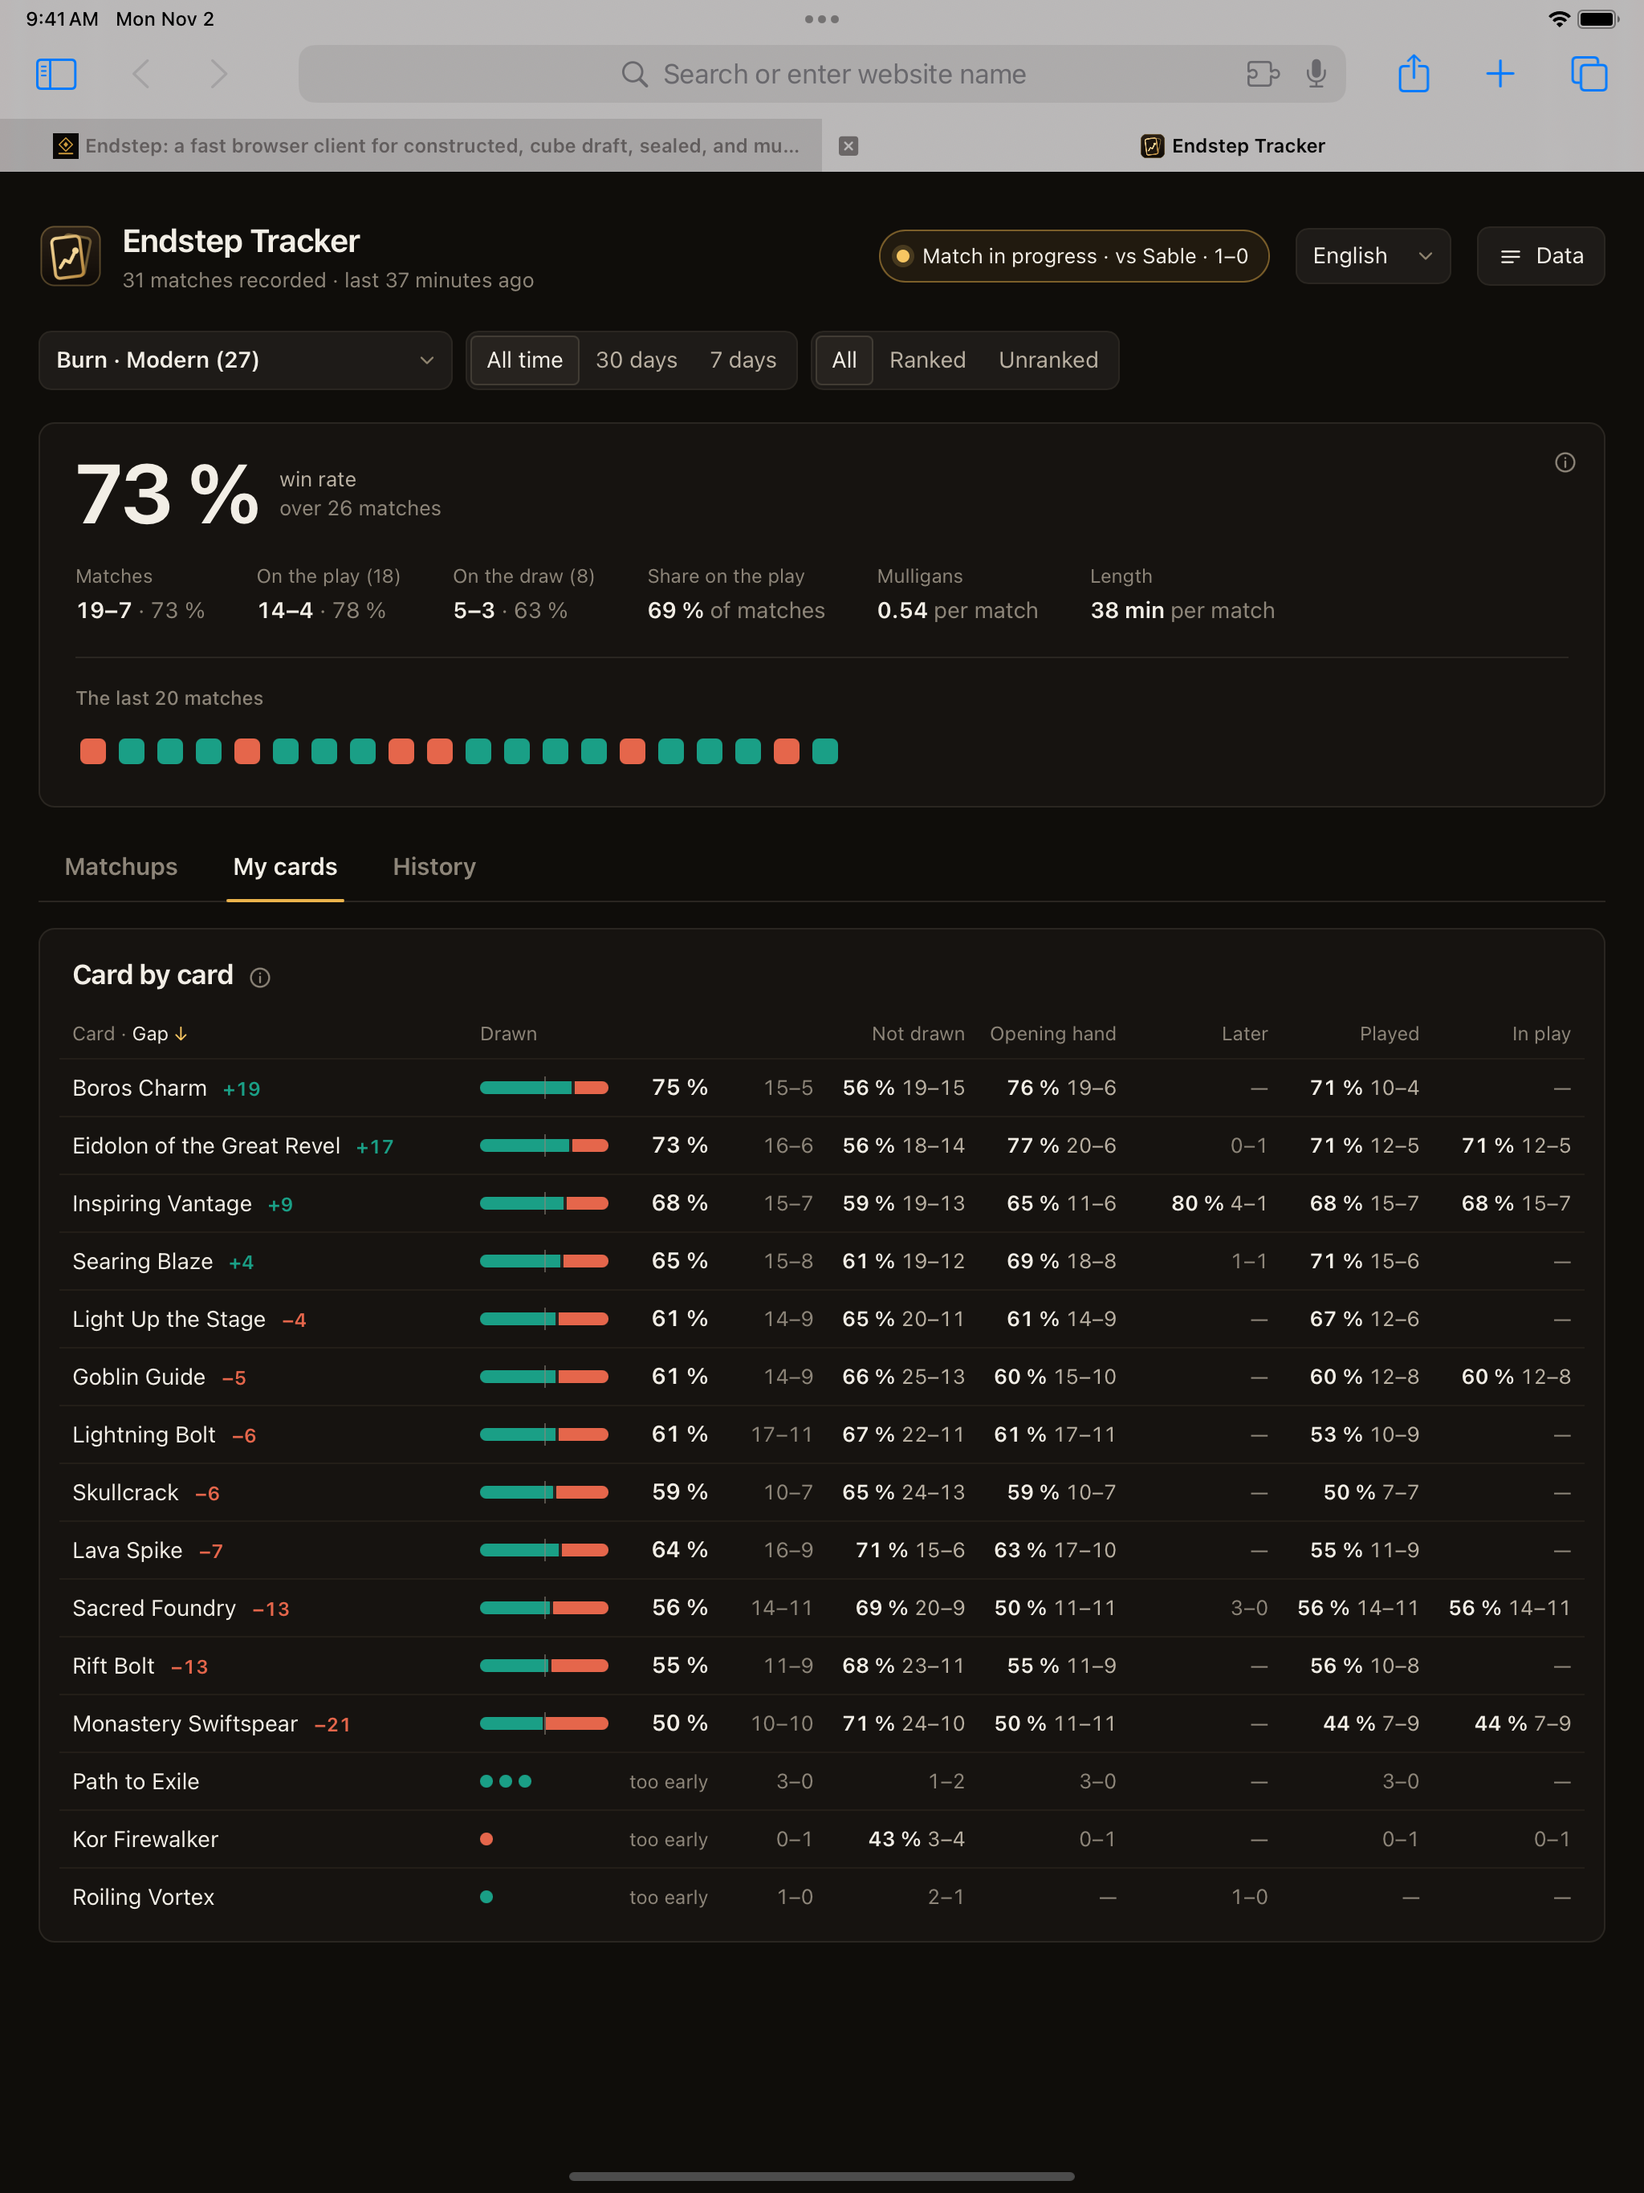
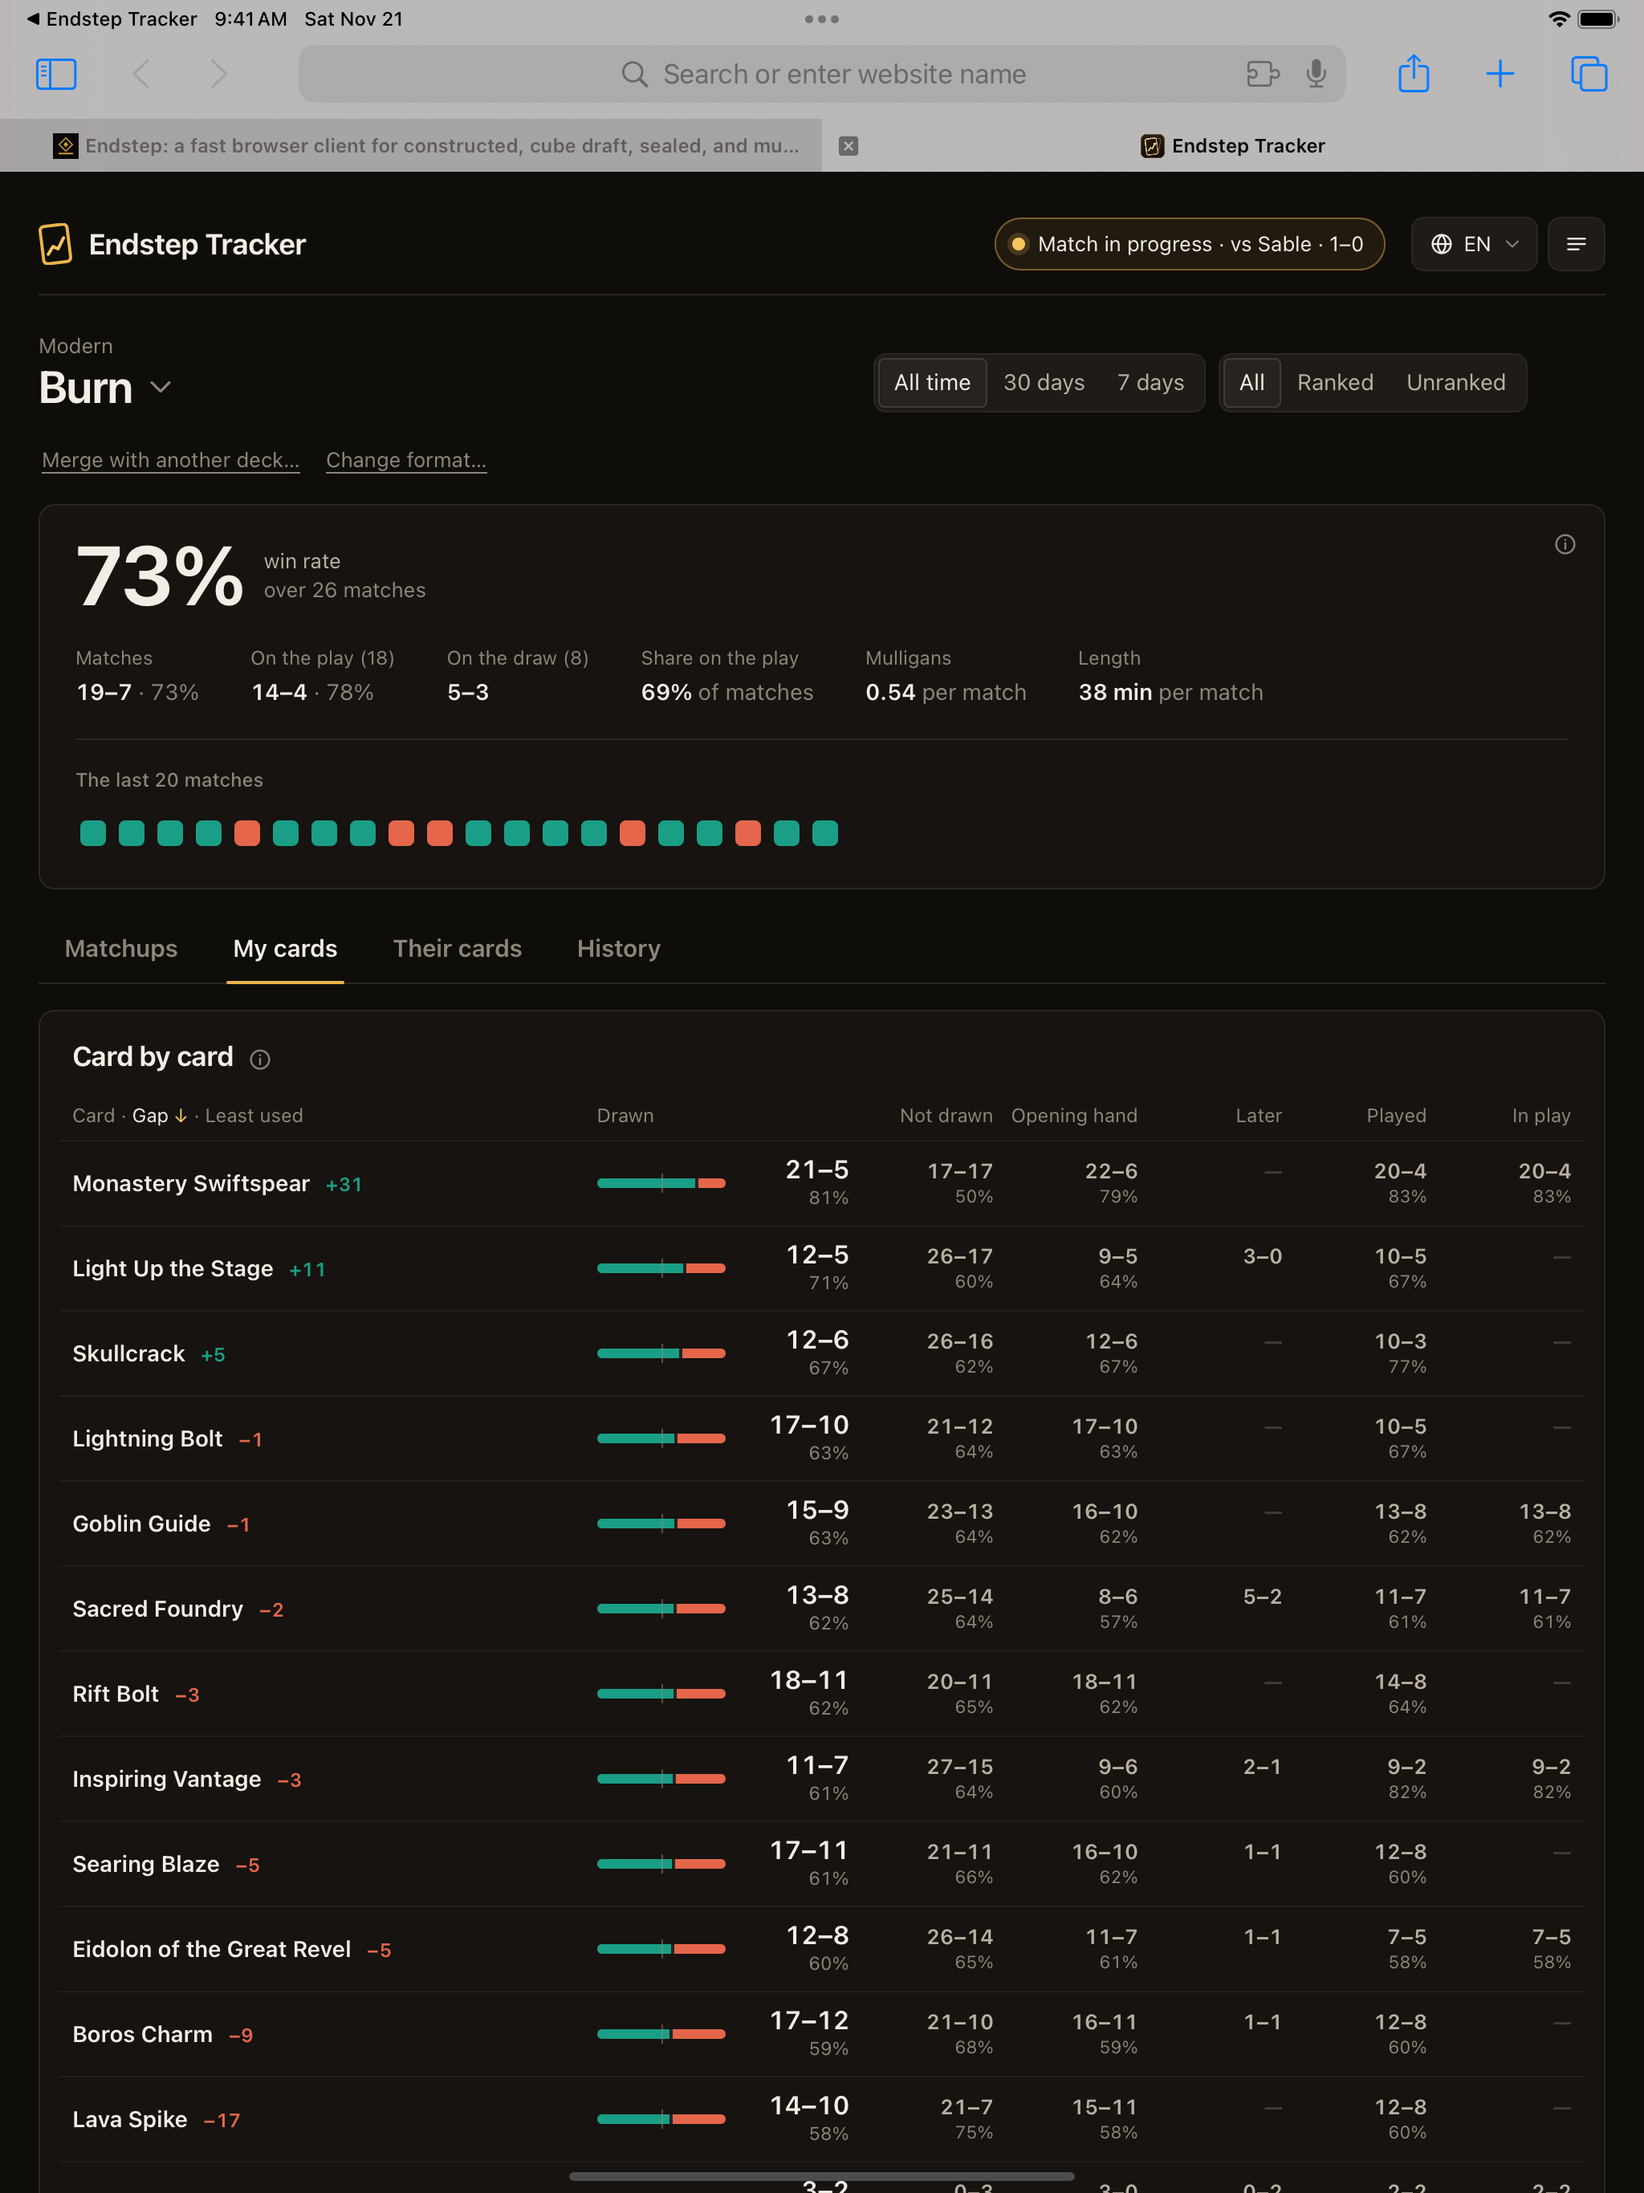
1.8.18: new store screenshots, no empty row under the filters on phone
- Desktop: their cards as shot 4 (Chrome keeps 1 to 5), the match detail moves to 6;
  the full Burn list, the cards played and the opponent's plays in the demo.
- iPhone and iPad: 12 shots each for 1.9, 1 to 8 in English, 9 to 12 in French.
- Phone dashboard: the hidden reset button no longer leaves an empty row.
- QA: the backup test no longer saves a file into Downloads.

diff --git a/store/shots.js b/store/shots.js
@@ -28,6 +28,12 @@ async function enrich() {
     'Jeskai Control': ['Counterspell', 'Solitude', 'Prismatic Ending', 'Island'], 'Ruby Storm': ['Ruby Medallion', 'Grapeshot', 'Manamorphose', 'Mountain'],
     'Golgari Yawgmoth': ['Yawgmoth, Thran Physician', 'Grist, the Hunger Tide', 'Forest'], 'Mono-Red Prowess': ['Soul-Scar Mage', 'Violent Urge', 'Mountain'],
     'Goryo Reanimator': ['Goryo\'s Vengeance', 'Atraxa, Grand Unifier', 'Plains'] };
+  // My list as the site gives it, on every Burn match (My cards follows the latest one's), and what my games put in play.
+  const list = (o) => Object.entries(o).map(([name, quantity]) => ({ name, quantity }));
+  const LIST = list(MAIN);
+  const SB = list({ 'Kor Firewalker': 3, 'Deflecting Palm': 2, 'Roiling Vortex': 2, 'Path to Exile': 3, 'Rest in Peace': 2, 'Smash to Smithereens': 3 });
+  const PERMANENT = /Guide|Swiftspear|Eidolon|Firewalker|Foundry|Vantage|Vortex|Rest in Peace/;
+  const LAND = /Mesa|Island|Forest|Swamp|Plains|Mountain|Tower|Saga/;
   let seed = 7;
   const rnd = () => (seed = (seed * 16807) % 2147483647) / 2147483647;
   const sided = (arch) => {
@@ -60,8 +66,12 @@ async function enrich() {
     for (const g of games) {
       g.drawn = drawnIn(m.mains[g.n], g.winnerSeat === 0);
       g.openingHand = Object.keys(g.drawn).slice(0, 6);
+      g.played = Object.fromEntries(Object.entries(g.drawn).filter(() => rnd() < 0.8));
+      g.board = Object.fromEntries(Object.entries(g.played).filter(([c]) => PERMANENT.test(c)));
       g.seen = { 1: Object.fromEntries(SEEN[archs[i]].filter(() => rnd() < 0.75).map((c) => [c, [c + '#1']])) };
-      g.log = g.log.filter(([, seat]) => seat === 0); // the replay's opponent played Burn too
+      // The replay's opponent played Burn too: their plays become the cards seen, for "Their cards".
+      g.log = g.log.filter(([, seat]) => seat === 0).concat(Object.keys(g.seen[1]).map((c) => [2, 1, LAND.test(c) ? 'LAND_PLAYED' : 'SPELL_CAST', c, '']))
+        .sort((a, b) => a[0] - b[0]);
     }
     m.players = [{ seat: 0, name: 'guest_rZ8gWdWE' }, { seat: 1, name: opp }];
     m.colors = { 1: colors[archs[i]] };
@@ -69,6 +79,8 @@ async function enrich() {
     window.__DATA['match:s' + i] = m;
     window.__DATA['note:s' + i] = { archetype: archs[i] };
   });
+  for (const m of Object.values(window.__DATA)) if (m && m.myDeck && m.myDeck.id === 'deck-Burn') Object.assign(m.myDeck, { cards: LIST, sideboard: SB });
+  Object.assign(window.__DATA.decks['deck-Burn'], { cards: LIST, sideboard: SB });
   await load();
 }
 
@@ -89,6 +101,7 @@ async function enrich() {
     await sleep(1500);
     await p.evaluate(enrich);
     await sleep(2500); // let the stubbed metagame load so no toast is up
+    await p.evaluate(() => { document.getElementById('promos').hidden = true; }); // my other projects' banners: not this listing's
     return p;
   };
   const shot = async (p, name) => {
@@ -104,6 +117,12 @@ async function enrich() {
   await p.evaluate(() => document.getElementById('tabs').scrollIntoView({ block: 'start' }));
   await sleep(300);
   await shot(p, '2-my-cards-en.png');
+  // Their cards: the opposing cards that cost me the most games.
+  await p.click('#tab-theirs');
+  await sleep(400);
+  await p.evaluate(() => document.getElementById('tabs').scrollIntoView({ block: 'start' }));
+  await sleep(300);
+  await shot(p, '4-their-cards-en.png');
   // The matchup panel: records and my usual sideboarding against Boros Energy.
   await p.evaluate(() => scrollTo(0, 0));
   await p.click('#tab-matchups');
@@ -119,7 +138,7 @@ async function enrich() {
   await sleep(400);
   await p.evaluate(() => document.querySelector('.match[data-id="s21"]').scrollIntoView({ block: 'start' }));
   await sleep(300);
-  await shot(p, '4-match-detail-en.png');
+  await shot(p, '6-match-detail-en.png');
   p = await open('fr', BURN);
   await shot(p, '5-dashboard-fr.png');
   await b.close();

diff --git a/test/harness/qa-format-move.js b/test/harness/qa-format-move.js
@@ -21,6 +21,7 @@ const HOSTILE = '<img src=x onerror=window.__x=1>"';
   try {
     const sw = await b.waitForTarget((x) => x.type() === 'service_worker' && x.url().startsWith('chrome-extension://'), { timeout: 10000 });
     const id = new URL(sw.url()).host;
+    await (await b.target().createCDPSession()).send('Browser.setDownloadBehavior', { behavior: 'deny' }); // the backup test exports a file: never into ~/Downloads
     const p = await b.newPage();
     await p.setViewport({ width: 1280, height: 900 });
     const errors = [];

diff --git a/dashboard.html b/dashboard.html
@@ -494,6 +494,7 @@
       #live-text { overflow: hidden; text-overflow: ellipsis; white-space: nowrap; }
       .panel-title { font-size: 16px; }
       .scope-title { font-size: 24px; }
+      #reset.off { display: none; } /* alone on its row here: hidden, it would leave that row empty */
       .promo-lead { display: none; }
       .promo > img { width: 28px; height: 28px; }
       .promo > .mark { width: 20px; height: 25px; margin: 2px 4px 0; }

diff --git a/store/STORE.md b/store/STORE.md
@@ -114,13 +114,16 @@ Chrome refused 1.1 on 2026-09-29 for keyword stuffing ("Yellow Argon") because o
 
 ## Assets
 
-Screenshots in this folder, 1280×800 PNG without alpha, made by `store/shots.js` from the QA demo data plus 24 synthetic Modern matches (made-up opponents, no real player; each with the cards drawn per game and a sideboarding against five archetypes):
+Screenshots in this folder, 1280×800 PNG without alpha, made by `store/shots.js` from the QA demo data plus 24 synthetic Modern matches (made-up opponents, no real player; each with the full Burn list, the cards drawn and played per game, the opponent's plays and a sideboarding against five archetypes; the banners for my other projects hidden):
 
 1. `1-dashboard-en.png`: summary and matchups, English
 2. `2-my-cards-en.png`: the "My cards" tab, card by card
 3. `3-matchup-side-en.png`: the matchup panel with my usual sideboarding and their cards seen
-4. `4-match-detail-en.png`: expanded match: opponent cards seen, archetype, notes, each game with its sideboarding
+4. `4-their-cards-en.png`: the "Their cards" tab, the opposing cards that cost me the most games
 5. `5-dashboard-fr.png`: summary and matchups, French
+6. `6-match-detail-en.png`: expanded match: opponent cards seen, archetype, notes, each game with its sideboarding
+
+Chrome takes 5 screenshots at most: 1 to 5. Edge and AMO take all 6. The landing page (`site/`) uses copies of 1, 2 and 3.
 
 Regenerate after a UI change: `node test/harness/gen-demo.js && node store/shots.js`.
 
@@ -163,7 +166,7 @@ The same `dist/safari/`, in a second wrapper app: `safari-ios/Endstep Tracker/En
 - The app shows one page (`Resources/Base.lproj/Main.html`, French on a French device through `ViewController.swift`, English otherwise): how to turn the extension on (Settings › Apps › Safari › Extensions), set endstep.cc to "Allow", and play in Safari. Extensions don't run in endstep added to the Home Screen, which endstep suggests on phones: the page says so. No tip or donation link, no link to other products (guideline 3.1.1); "Open endstep.cc" goes to Safari.
 - App icon: `node safari/ios-icon.js icons/icon.svg out.png`, the tile edge to edge on an opaque 1024 px square (iOS masks the corners and refuses transparency), as `AppIcon.appiconset/universal-icon-1024@1x.png`.
 - Differences on the phone, in the extension's code: no windows API (`background.js` checks it before bringing the dashboard back), no download from an extension page (`dashboard.js` hands backups to the share sheet: Save to Files, AirDrop…), no CSS anchor positioning before Safari 26 (the Data menu is placed by script). No REC badge in sight: Safari on iPhone shows none.
-- Screenshots: `store/iphone/`, 1320×2868 for the 6.9" iPhone (Apple scales them down for the smaller ones): 1 to 7 in English (the app's own page, the popup opened from Safari's extensions menu, the in-page panel during a match, the dashboard, a matchup, My cards, the history), 8 to 11 in French. `store/ipad/`, 2048×2732 for the 13" iPad, the same idea. Apple refused 1.5 under guideline 2.3.3 when the screenshots only showed Safari on endstep.cc: the app's page and the popup come first so the link between the app and what runs in Safari is clear. Taken in the iPhone 16 Pro Max and iPad Air 13" simulators (status bar set to 9:41 with `xcrun simctl status_bar`) with a throwaway build whose `dist/safari/shared.js` writes the store screenshots' demo data (`store/shots.js`, made-up opponents, plus a live match against Sable) to `chrome.storage`; the build that ships is archived from a clean `release.sh safari`.
+- Screenshots: `store/iphone/`, 1320×2868 for the 6.9" iPhone (Apple scales them down for the smaller ones): 1 to 8 in English (the app's own page, the popup opened from Safari's extensions menu, the in-page panel during a match, the dashboard, a matchup, My cards, Their cards, the history), 9 to 12 in French. `store/ipad/`, 2048×2732 for the 13" iPad, the same idea. endstep.cc in the simulators' Safari runs as a guest; on the iPad its lobby shows the "Yours" tab, so that no real player's name is in the screenshots. Apple refused 1.5 under guideline 2.3.3 when the screenshots only showed Safari on endstep.cc: the app's page and the popup come first so the link between the app and what runs in Safari is clear. Taken in the iPhone 16 Pro Max and iPad Air 13" simulators (status bar set to 9:41 with `xcrun simctl status_bar`) with a throwaway build whose `dist/safari/background.js` writes the store screenshots' demo data once (`store/shots.js`, made-up opponents, plus a live match against Sable), with the manifest at the release's version and `telemetry.js` pointed nowhere; the build that ships is archived from a clean `release.sh safari`.
 - App Store Connect, the first time: on the app record, add the iOS platform (+ next to the platforms), then fill its version page: the screenshots above, description and keywords as above, the same privacy answers as the Mac (App Privacy belongs to the app record: Product Interaction and Device ID, see above). The iPhone version goes through its own review. `publish.sh safari` uploads both builds; select each on its platform's version.
 
 ## Release notes

diff --git a/CHANGELOG.md b/CHANGELOG.md
@@ -42,6 +42,7 @@ Les releases sont numérotées **`X.Y`** et taguées `vX.Y` ; entre deux release
 - **Popup** : elle ne relit plus tout à chaque écriture du match en cours, et suit les fusions, les changements de format et le métagame faits dans le tableau de bord (1.8.12).
 - **Matchups** : « Meilleurs » et « Pires » ne mettent plus un 1–0 devant un 8–1 ; au-delà de 20 archétypes, seuls ceux croisés une seule fois sont regroupés (1.8.15).
 - **Pourcentages** : écrits comme dans ta langue (54% en anglais, 54 % en français) ; le filtre d'un adversaire change de langue avec le reste (1.8.13).
+- **Tableau de bord sur téléphone** : plus de ligne vide sous les filtres (1.8.18).
 
 ## [1.8] (2026-11-16)
 
